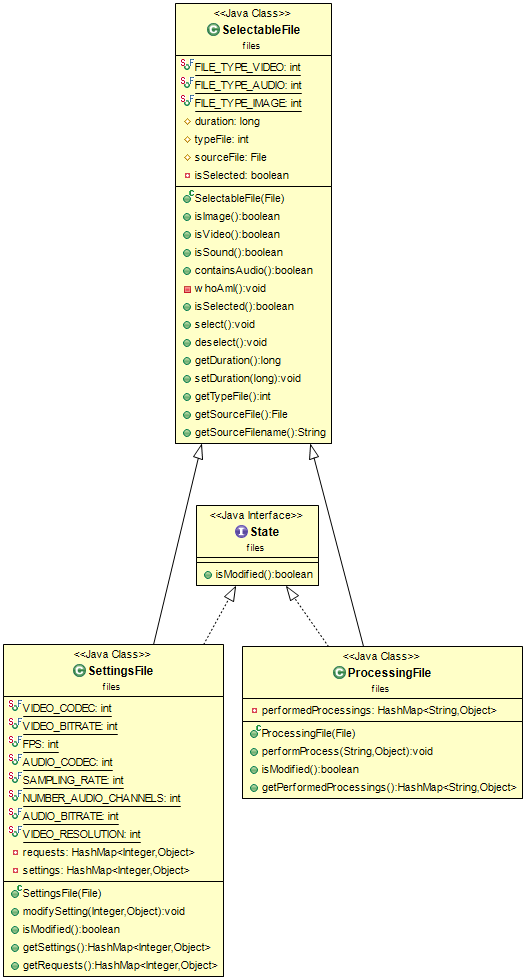
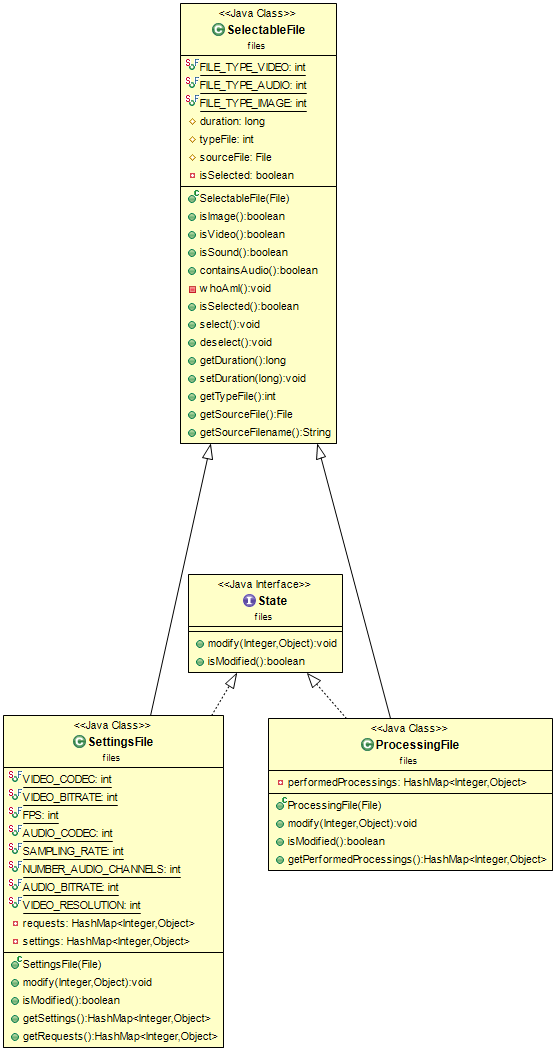
Evolution de l'interface state.

Changed region(s): [[0.0, 0.0, 1.0, 1.0]]

diff --git a/src/files/ProcessingFile.java b/src/files/ProcessingFile.java
@@ -19,7 +19,7 @@ public class ProcessingFile extends SelectableFile implements State{
 	/**
 	 * Les traitements en attente sur this. 
 	 */
-	private HashMap<String, Object> performedProcessings;
+	private HashMap<Integer, Object> performedProcessings;
 
 	
 	//=======================================================================================================================
@@ -40,7 +40,7 @@ public class ProcessingFile extends SelectableFile implements State{
 		/**
 		 * INITIALISATION DE TABLE DES TRAITEMENTS EN ATTENTE SUR THIS. 
 		 */
-		this.performedProcessings = new HashMap<String, Object>();
+		this.performedProcessings = new HashMap<Integer, Object>();
 		
 		/**
 		 * INITIALISATION DE LA DUREE DU SON OU DE LA VIDEO. 
@@ -63,7 +63,7 @@ public class ProcessingFile extends SelectableFile implements State{
 	 * @param object		Les arguments necessaires a connaitre pour executer 
 	 * 						les traitements. 
 	 */
-	public void performProcess(String typeProcess, Object process) { 
+	public void modify(Integer typeProcess, Object process) { 
 		performedProcessings.put(typeProcess, process);
 	}
 
@@ -76,7 +76,7 @@ public class ProcessingFile extends SelectableFile implements State{
 	 * [ METHODE POUR SAVOIR SI DES TRAIEMENTS SONT EN ATTENTE SUR CE FICHIER. ]
 	 */
 	public boolean isModified() {
-		return  !performedProcessings.equals(new HashMap<String, Object>());
+		return  !performedProcessings.equals(new HashMap<Integer, Object>());
 	}
 	
 	
@@ -91,7 +91,7 @@ public class ProcessingFile extends SelectableFile implements State{
 	 * 
 	 * @return HashMap<String, Object>		Les traitements en attente.
 	 */
-	public HashMap<String, Object> getPerformedProcessings() {
+	public HashMap<Integer, Object> getPerformedProcessings() {
 		return performedProcessings;
 	}
 

diff --git a/src/files/State.java b/src/files/State.java
@@ -2,13 +2,28 @@ package files;
 
 public interface State{
 	/**
+	 * [ METHODE POUR MODIFIER THIS. ]
+	 * 
+	 * 	 * Methode dont le comportement en interne change selon si on est dans
+	 * la classe SettingsFile ou dans la classe ProcessingFile.
+	 * 
+	 * En effet selon la classe, modifier a un sens different. Cela
+	 * justifie la declaration l'existence de cette interface.
+	 * 
+	 * @param type_change 		Le type de changement.
+	 * @param change			Les valeurs pour le calcul changement. 
+	 */
+	public void modify(Integer type_change, Object change);
+	
+	
+	/**
 	 * [ METHODE POUR SAVOIR SI THIS A ETE MODIFIE. ]
 	 * 
 	 * Methode dont le comportement en interne change selon si on est dans
 	 * la classe SettingsFile ou dans la classe ProcessingFile.
 	 * 
 	 * En effet selon la classe, etre modifiee a un sens different. Cela
-	 * justifie la declaration l'exsitence de cette interface.
+	 * justifie la declaration l'existence de cette interface.
 	 * 
 	 * Cette methode sera tres utile au moment ou l'utilisateur du logiciel voudra
 	 * generer le fichier de sortie, elle permettra des lors de savoir si this a

diff --git a/src/files/SettingsFile.java b/src/files/SettingsFile.java
@@ -120,8 +120,8 @@ public class SettingsFile extends SelectableFile implements State{
 	 * @param setting  Le parametre a modifier.
 	 * @param newValue La nouvelle valeur du parametre.
 	 */
-	public void modifySetting(Integer setting, Object request) {
-		this.requests.put(setting, request);
+	public void modify(Integer typeSetting, Object setting) {
+		this.requests.put(typeSetting, setting);
 	}
 
 	
